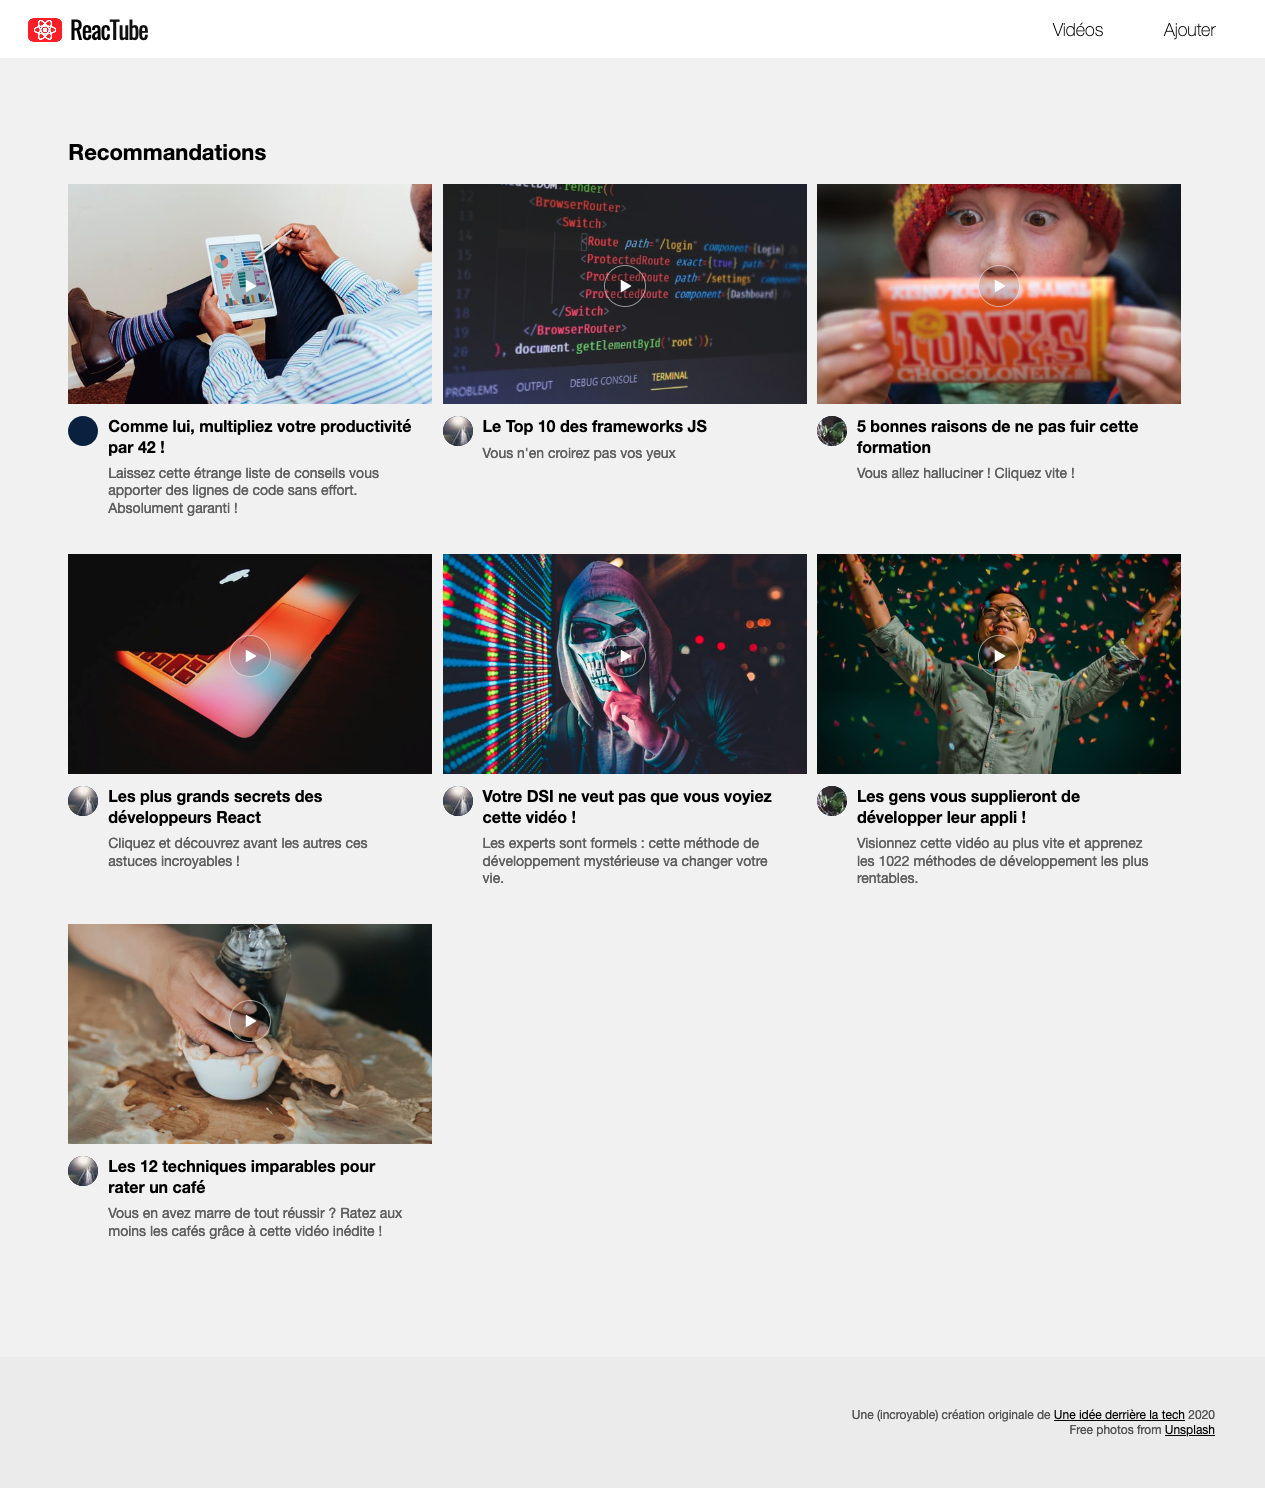
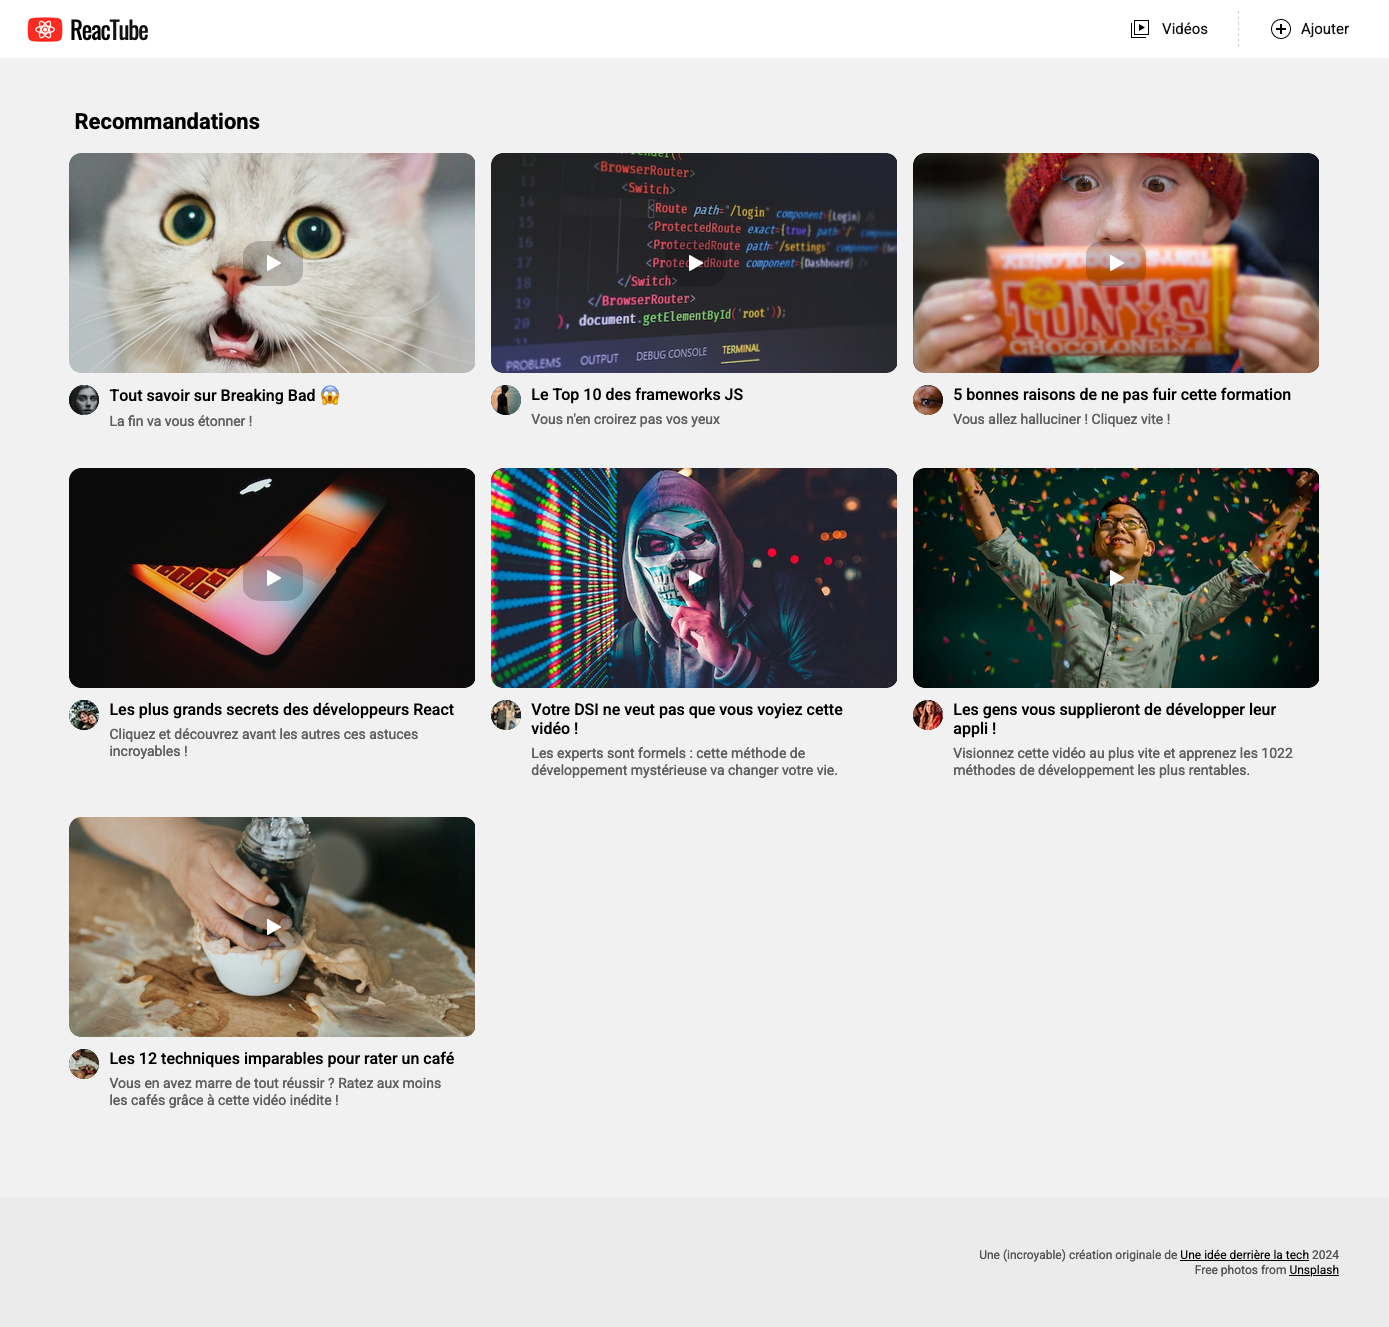
maj screenshots readme nouvelle skin
+ ajout screenshot VideoForm

diff --git a/C-VideoForm.md b/C-VideoForm.md
@@ -47,6 +47,8 @@ _**Maintenant que l'on est capables de récupérer des informations de la bdd av
 2. **Ajoutez cet écran dans le `Navigator` avec un identifiant de route associé** (_pour `VideoList` on avait `'list'`, pour `VideoDetail` on avait `'detail'`, je vous propose donc pour `VideoForm` de partir sur... `'form'`, original non ?_)
 3. **Affichez `VideoForm` par défaut au chargement de l'appli en modifiant le `state` par défaut du `Navigator`**
 
+	<img src="images/readme/screen-05.png" />
+
 ## C.2. Gestion du formulaire
 1. **A l'aide de la technique des composants non-contrôlés** (_cf. pdf du cours_) faites en sorte d'afficher dans la console les valeurs saisies par l'utilisateur lorsqu'il soumet le formulaire (touche <kbd>Entrée</kbd> ou click sur le bouton "Envoyer")
 2. **Une fois les valeurs récupérées, envoyez une requête POST vers le webservice http://localhost:8080/api/videos**
